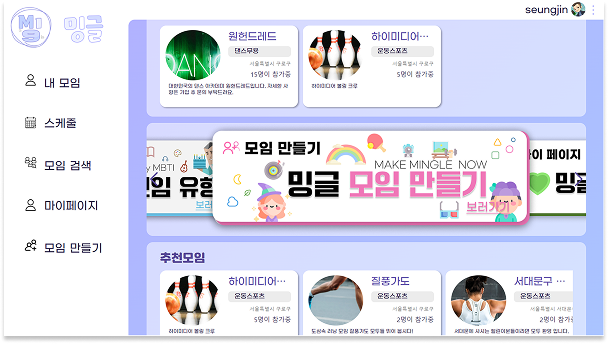
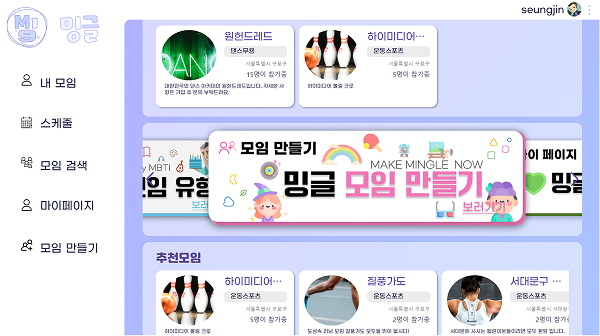
db생성

diff --git a/src/db.ts b/src/db.ts
@@ -1,0 +1,27 @@
+export interface Project {
+  id: number;
+  title : string;
+  exPage: string;
+  skill:  string[] ; 
+  startexPage: string;
+  endexPage: string;
+  content: string; 
+}
+
+export const project: Project[] = [
+  {
+    id: 1,
+    title: "Mingle",
+    exPage: "mingle_img",
+    skill: [
+      "Css 3",
+      "Html 5",
+      "Js",
+    ],
+    startexPage: "2023-12-01",
+    endexPage: "2023-12-01",
+    content: "관심있는 관심사를 기반으로 사용자가 만들어가는 모임 웹페이지로 오프라인 모임의 한계를 깨고 온라인과 오프라인을 연결하는 웹페이지를 만들어 모임을 더 다양하고 다채로운 사람을 마주할 수 있고, 그 중 나와같은 관심사를 가진 사람들을 간단하게 찾고 모임활동을 쉽게 즐길 수 있도록 하기위해 만들어졌다.",
+
+  },
+ 
+];

diff --git a/src/components/card/Card.tsx b/src/components/card/Card.tsx
@@ -13,7 +13,9 @@ const Card: React.FC= () => {
             <img src="/image/mingle_img.png" alt="" />
           </div>
           <div id='c_bottom'>
-            <div className='c_tag'> s</div>
+            <div className='c_tag'> 
+              <img src="image\tag\Css 3.png" alt="" />
+            </div>
             <div>더보기 ></div>
           </div>
         </div>

diff --git a/src/components/card/Card.css b/src/components/card/Card.css
@@ -28,7 +28,7 @@
 }
 
 #c_img {
-  height: 82%;
+  height: 78%;
   display: flex;
   justify-content: center;
   align-items: center;
@@ -43,8 +43,9 @@ background-size: cover;
   display: flex;
 }
 .c_tag{
-  width: auto;
+  max-width: 50%;
   margin-right: auto;
+  display: flex;
 }
 #c_bottom >div{
   width: auto;
